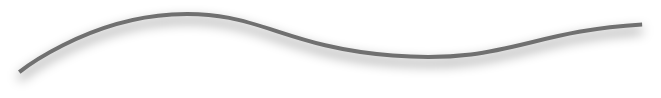
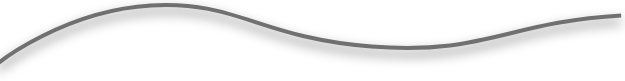
h2 lines and work section style start

Changed region(s): [[0.0, 0.0247, 0.5168, 0.8642], [0.5168, 0.4198, 0.8208, 0.6173], [0.7904, 0.1481, 1.0, 0.3951]]

diff --git a/css/style.css b/css/style.css
@@ -151,10 +151,22 @@ table {
   --font-size-small: 10px;
   --font-size-subtitle2: 25px;
 }
-
+body {
+  font-family: var(--display-font);
+}
 h2 {
   font-family: var(--display-font);
   font-size: var(--font-size-subtitle2);
+  text-align: center;
+  margin-bottom: -10px;
+}
+
+.lines {
+  z-index: 2;
+  background-image: url(../images/mobile-lines.png);
+  background-size: 85%;
+  background-repeat: no-repeat;
+  min-height: 40px;
 }
 /***************** GRID *******************/
 .grid-container {
@@ -310,15 +322,17 @@ aside i {
 #work {
   grid-area: work;
 }
-.lines {
+#work #filters {
+  display: grid;
+  grid-template: 1fr 1fr/ 1fr 1fr 1fr;
+  grid-row-gap: 10px;
+  margin: 20px 0 20px 0;
 }
-.line1 {
-  background-image: url(../images/mobile-line-small.png);
-  background-size: 100%;
-}
-.line2 {
-  background-image: url(../images/mobile-line-big.png);
-  background-size: 100%;
+#work #filters button {
+  border: none;
+  background-color: transparent;
+  font-family: var(--display-font);
+  font-size: var(--font-size-text1);
 }
 
 /*********ABOUT**************/

diff --git a/index.html b/index.html
@@ -123,11 +123,16 @@
     </section>
     <section id="work">
       <h2>My Work</h2>
-      <div class="lines">
-        <img src="images/mobile-line-big.png" alt="" />
-        <div class="line1"></div>
-        <div class="line2"></div>
-      </div>
+      <div class="lines"></div>
+      <section id="filters">
+        <button>Archiecture</button>
+        <button>Animation</button>
+        <button>Web Design</button>
+        <button>App Design</button>
+        <button>Video</button>
+        <button>All</button>
+      </section>
+
       <template>
         <article>
           <a href="">
@@ -208,6 +213,7 @@
     </section>
     <section id="about">
       <h2>My Story</h2>
+      <div class="lines"></div>
       <section>
         <img src="" alt="" />
         <div>
@@ -412,6 +418,7 @@
     </section>
     <section id="contact">
       <h2>My Contact</h2>
+      <div class="lines"></div>
       <div>
         <h3></h3>
         <img src="" alt="" />
